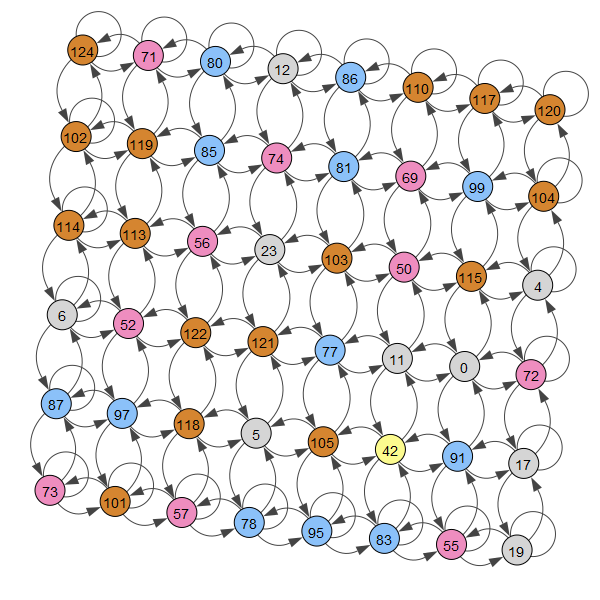
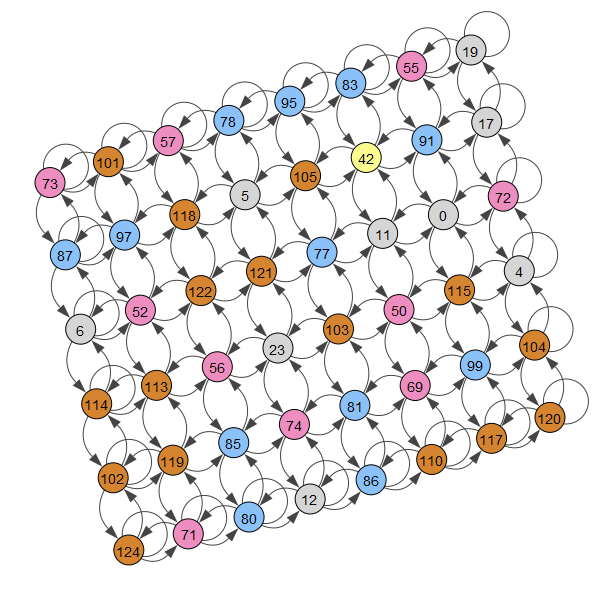
nothing

diff --git a/CSCG_helpers.py b/CSCG_helpers.py
@@ -134,31 +134,6 @@ class Plotting:
 
         return out
     
-    # sequential colormaps:
-    # viridis
-    # plasma
-    # inferno
-    # magma
-    # cividis
-    # Blues
-    # BuGn
-    # BuPu
-    # GnBu
-    # Greens
-    # Greys
-    # Oranges
-    # OrRd
-    # PuBu
-    # PuBuGn
-    # PuRd
-    # Purples
-    # RdPu
-    # Reds
-    # YlGn
-    # YlGnBu
-    # YlOrBr
-    # YlOrRd
-    
     @staticmethod
     def plot_room(room, pos=None, t=None):
         room = room.copy()
